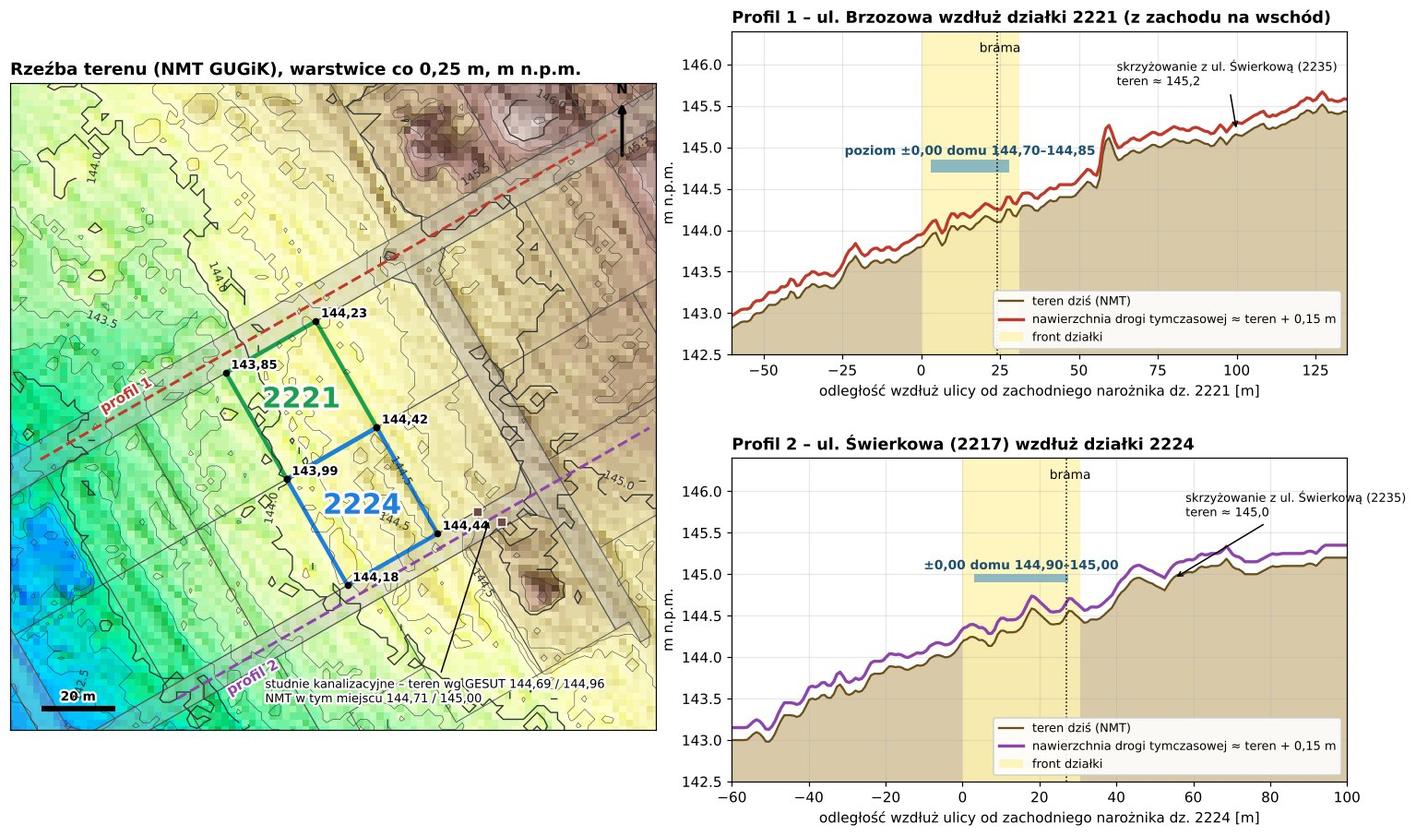
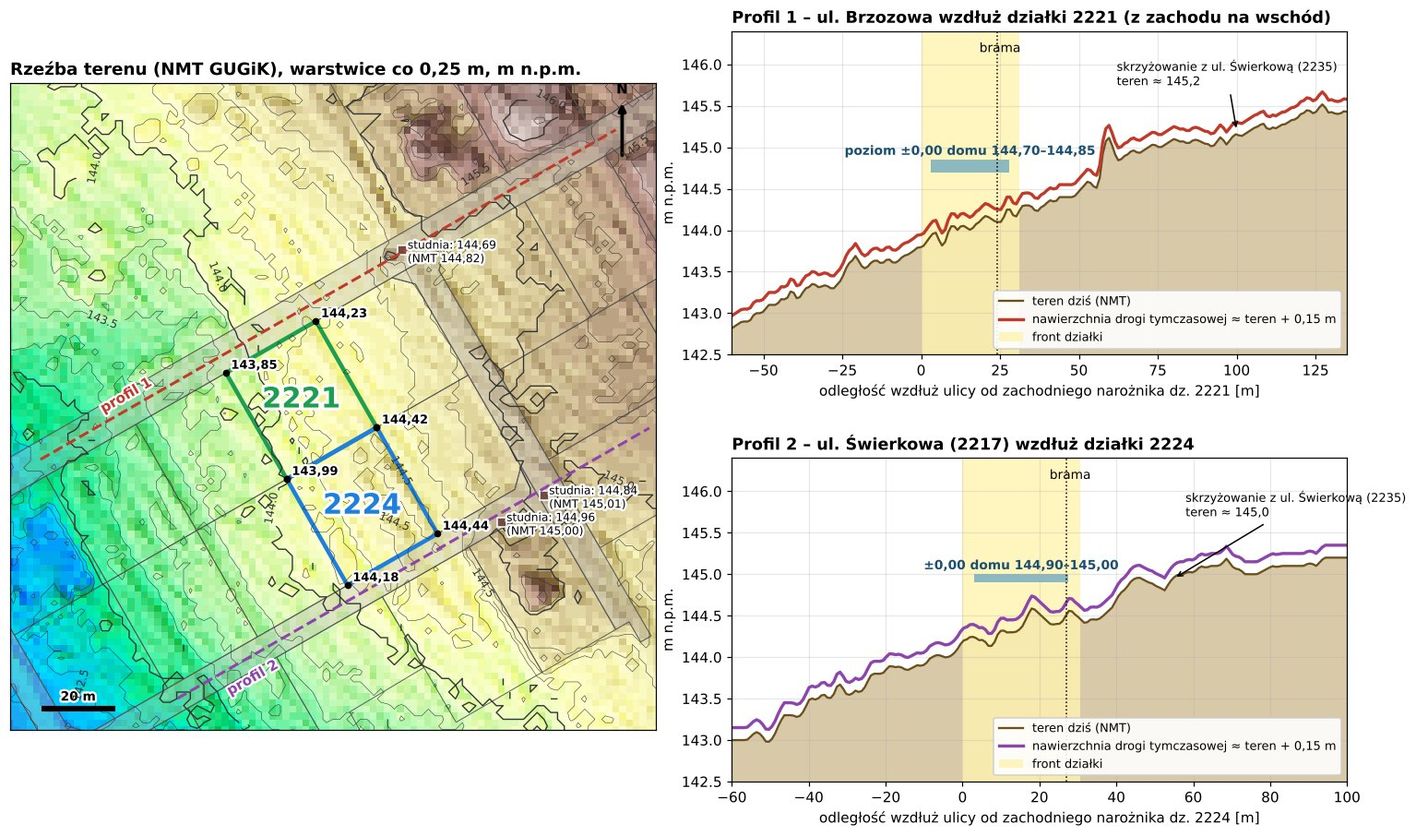
Tabela porównania mediów przy działkach, poprawki mapy wysokości
Claude-Session: https://claude.ai/code/session_01Di4FdYcmquZcsc6YQwvnck

Changed region(s): [[0.1837, 0.8035, 0.4287, 0.8653], [0.3368, 0.5563, 0.4593, 0.649], [0.2756, 0.2781, 0.3674, 0.34]]

diff --git a/index.html b/index.html
@@ -146,6 +146,10 @@ table.zg th small{display:block;font-weight:400;color:var(--muted);font-size:.78
 .legend{display:flex;flex-wrap:wrap;gap:.4rem 1.4rem;margin:.6rem 0;font-size:.92rem}
 .legend span{display:flex;align-items:center}
 
+dl.md{display:grid;grid-template-columns:auto 1fr;gap:.15rem .7rem;margin:.5rem 0 0;font-size:.88rem}
+dl.md dt{color:var(--muted)}dl.md dd{margin:0}
+table.mp td{min-width:17rem;vertical-align:top}
+
 :root{--f-display:"IBM Plex Sans","Segoe UI",system-ui,sans-serif;--f-body:"IBM Plex Sans","Segoe UI",system-ui,sans-serif;--side:300px;--topb:0px}
 :root,:root[data-theme="light"]{--paper:#f6f7f9;--card:#ffffff;--ink:#16202a;--muted:#55616c;--line:#d9dee4;--accent:#0b5e86;--accent-soft:#e3eef5;--side-bg:#ffffff;--side-ink:#16202a;--side-cur:#e3eef5}
 @media (prefers-color-scheme: dark){:root:not([data-theme="light"]){--side-bg:#0f171d;--side-ink:#e4ebe8;--side-cur:#183a40}}
@@ -233,7 +237,7 @@ header.hero .lead{font-size:1.1rem;max-width:none;color:var(--ink)}
 </head>
 <body>
 <div lang="pl" class="app">
-<aside class="side" id="side" aria-label="Spis treści"><div class="brand"><b>Dom w Garwolinie</b><span>wersja 2.2 · 18.10.2026</span></div><nav><div class="grp on" data-t="wspolne"><button type="button" class="gh" data-tab="wspolne" aria-expanded="true"><span class="tw2">Przegląd<small>wspólne dla obu działek</small></span><span class="chev" data-fold aria-label="Zwiń lub rozwiń">▾</span></button><ul><li><a href="#mpzp" data-sec="mpzp" data-t="wspolne">Plan miejscowy</a></li><li><a href="#c-zgod" data-sec="c-zgod" data-t="wspolne">Zgodność domów z planem</a></li><li><a href="#c-porownanie" data-sec="c-porownanie" data-t="wspolne">Porównanie działek</a></li><li><a href="#skroty" data-sec="skroty" data-t="wspolne">Skróty</a></li><li><a href="#c-slonce" data-sec="c-slonce" data-t="wspolne">Słońce – zasady</a></li><li><a href="#c-domy" data-sec="c-domy" data-t="wspolne">Domy</a></li><li><a href="#c-media" data-sec="c-media" data-t="wspolne">Media</a></li><li><a href="#gesut" data-sec="gesut" data-t="wspolne">Przyłącza wg GESUT</a></li><li><a href="#moc" data-sec="moc" data-t="wspolne">Moc i bezpiecznik</a></li><li><a href="#jak" data-sec="jak" data-t="wspolne">Wnioski PGE/PWiK/PSG</a></li><li><a href="#pge-form" data-sec="pge-form" data-t="wspolne">Wniosek PGE krok po kroku</a></li><li><a href="#zalozenia" data-sec="zalozenia" data-t="wspolne">Założenia</a></li><li><a href="#zrodla" data-sec="zrodla" data-t="wspolne">Źródła</a></li></ul></div><div class="grp" data-t="2221"><button type="button" class="gh" data-tab="2221" aria-expanded="true"><span class="tw2">Działka 2221<small>ul. Brzozowa · warianty A / B</small></span><span class="chev" data-fold aria-label="Zwiń lub rozwiń">▾</span></button><ul><li><a href="#2221-w" data-sec="2221-w" data-t="2221">Wnioski</a></li><li><a href="#2221-u" data-sec="2221-u" data-t="2221">Ustawienia domu</a></li><li><a href="#2221-s" data-sec="2221-s" data-t="2221">Słońce</a></li><li><a href="#2221-m" data-sec="2221-m" data-t="2221">Media</a></li><li><a href="#2221-d" data-sec="2221-d" data-t="2221">Domy</a></li></ul></div><div class="grp" data-t="2224"><button type="button" class="gh" data-tab="2224" aria-expanded="true"><span class="tw2">Działka 2224<small>ul. Świerkowa · warianty C / D</small></span><span class="chev" data-fold aria-label="Zwiń lub rozwiń">▾</span></button><ul><li><a href="#2224-w" data-sec="2224-w" data-t="2224">Wnioski</a></li><li><a href="#2224-u" data-sec="2224-u" data-t="2224">Ustawienia domu</a></li><li><a href="#2224-s" data-sec="2224-s" data-t="2224">Słońce</a></li><li><a href="#2224-m" data-sec="2224-m" data-t="2224">Media</a></li><li><a href="#2224-d" data-sec="2224-d" data-t="2224">Domy</a></li></ul></div><div class="grp" data-t="tech"><button type="button" class="gh" data-tab="tech" aria-expanded="true"><span class="tw2">Technologia<small>żelbet · keramzyt · silikat · drewno</small></span><span class="chev" data-fold aria-label="Zwiń lub rozwiń">▾</span></button><ul><li><a href="#t-kto" data-sec="t-kto" data-t="tech">Kto w czym buduje</a></li><li><a href="#t-energia" data-sec="t-energia" data-t="tech">Energia – wykresy</a></li><li><a href="#t-zima" data-sec="t-zima" data-t="tech">Zima</a></li><li><a href="#t-lato" data-sec="t-lato" data-t="tech">Lato</a></li><li><a href="#t-praktyka" data-sec="t-praktyka" data-t="tech">Szafki i elektryka</a></li><li><a href="#t-inne" data-sec="t-inne" data-t="tech">Akustyka, ogień, wilgoć</a></li><li><a href="#t-opinie" data-sec="t-opinie" data-t="tech">Producent vs właściciele</a></li><li><a href="#t-skandynawia" data-sec="t-skandynawia" data-t="tech">Mit Skandynawii</a></li><li><a href="#t-lokalnie" data-sec="t-lokalnie" data-t="tech">Rekomendacja dla Garwolina</a></li><li><a href="#t-wniosek" data-sec="t-wniosek" data-t="tech">Wnioski i pytania</a></li><li><a href="#t-zrodla" data-sec="t-zrodla" data-t="tech">Źródła</a></li></ul></div><div class="grp" data-t="fin"><button type="button" class="gh" data-tab="fin" aria-expanded="true"><span class="tw2">Koszty i kredyt<small>ogrzewanie · urządzenia · banki</small></span><span class="chev" data-fold aria-label="Zwiń lub rozwiń">▾</span></button><ul><li><a href="#f-energia" data-sec="f-energia" data-t="fin">Pompa ciepła czy gaz</a></li><li><a href="#f-urzadzenia" data-sec="f-urzadzenia" data-t="fin">Pompy ciepła i rekuperatory</a></li><li><a href="#f-kredyt" data-sec="f-kredyt" data-t="fin">Kredyt</a></li><li><a href="#f-zrodla" data-sec="f-zrodla" data-t="fin">Źródła</a></li></ul></div><div class="grp" data-t="krok"><button type="button" class="gh" data-tab="krok" aria-expanded="true"><span class="tw2">Krok po kroku<small>plan · dokumenty · wnioski</small></span><span class="chev" data-fold aria-label="Zwiń lub rozwiń">▾</span></button><ul><li><a href="#k-mpzp" data-sec="k-mpzp" data-t="krok">Plan miejscowy</a></li><li><a href="#k-zgod" data-sec="k-zgod" data-t="krok">Zgodność domów z planem</a></li><li><a href="#k-kroki" data-sec="k-kroki" data-t="krok">Kroki od działki do domu</a></li><li><a href="#k-producent" data-sec="k-producent" data-t="krok">Co dla producenta</a></li><li><a href="#k-wnioski" data-sec="k-wnioski" data-t="krok">Wnioski o warunki</a></li><li><a href="#k-drogi" data-sec="k-drogi" data-t="krok">Dojazd i zjazd</a></li><li><a href="#k-teren" data-sec="k-teren" data-t="krok">Wysokości, droga, podsypka</a></li><li><a href="#k-zrodla" data-sec="k-zrodla" data-t="krok">Źródła</a></li></ul></div></nav><div class="tools"><button type="button" id="thm">☾ Ciemny motyw</button><button type="button" data-fold-all>Zwiń wszystko</button></div></aside><div class="scrim" id="scrim"></div><div class="topbar"><button type="button" id="mbtn" aria-label="Menu" aria-controls="side">☰</button><span class="t" id="tbt">Dom w Garwolinie · v2.2</span><button type="button" id="thm2" aria-label="Zmień motyw jasny / ciemny">◐ Motyw</button></div><main class="wrap"><header class="hero" id="top">
+<aside class="side" id="side" aria-label="Spis treści"><div class="brand"><b>Dom w Garwolinie</b><span>wersja 2.2 · 18.10.2026</span></div><nav><div class="grp on" data-t="wspolne"><button type="button" class="gh" data-tab="wspolne" aria-expanded="true"><span class="tw2">Przegląd<small>wspólne dla obu działek</small></span><span class="chev" data-fold aria-label="Zwiń lub rozwiń">▾</span></button><ul><li><a href="#mpzp" data-sec="mpzp" data-t="wspolne">Plan miejscowy</a></li><li><a href="#c-zgod" data-sec="c-zgod" data-t="wspolne">Zgodność domów z planem</a></li><li><a href="#c-porownanie" data-sec="c-porownanie" data-t="wspolne">Porównanie działek</a></li><li><a href="#c-media-por" data-sec="c-media-por" data-t="wspolne">Media przy działkach</a></li><li><a href="#skroty" data-sec="skroty" data-t="wspolne">Skróty</a></li><li><a href="#c-slonce" data-sec="c-slonce" data-t="wspolne">Słońce – zasady</a></li><li><a href="#c-domy" data-sec="c-domy" data-t="wspolne">Domy</a></li><li><a href="#c-media" data-sec="c-media" data-t="wspolne">Media</a></li><li><a href="#gesut" data-sec="gesut" data-t="wspolne">Przyłącza wg GESUT</a></li><li><a href="#moc" data-sec="moc" data-t="wspolne">Moc i bezpiecznik</a></li><li><a href="#jak" data-sec="jak" data-t="wspolne">Wnioski PGE/PWiK/PSG</a></li><li><a href="#pge-form" data-sec="pge-form" data-t="wspolne">Wniosek PGE krok po kroku</a></li><li><a href="#zalozenia" data-sec="zalozenia" data-t="wspolne">Założenia</a></li><li><a href="#zrodla" data-sec="zrodla" data-t="wspolne">Źródła</a></li></ul></div><div class="grp" data-t="2221"><button type="button" class="gh" data-tab="2221" aria-expanded="true"><span class="tw2">Działka 2221<small>ul. Brzozowa · warianty A / B</small></span><span class="chev" data-fold aria-label="Zwiń lub rozwiń">▾</span></button><ul><li><a href="#2221-w" data-sec="2221-w" data-t="2221">Wnioski</a></li><li><a href="#2221-u" data-sec="2221-u" data-t="2221">Ustawienia domu</a></li><li><a href="#2221-s" data-sec="2221-s" data-t="2221">Słońce</a></li><li><a href="#2221-m" data-sec="2221-m" data-t="2221">Media</a></li><li><a href="#2221-d" data-sec="2221-d" data-t="2221">Domy</a></li></ul></div><div class="grp" data-t="2224"><button type="button" class="gh" data-tab="2224" aria-expanded="true"><span class="tw2">Działka 2224<small>ul. Świerkowa · warianty C / D</small></span><span class="chev" data-fold aria-label="Zwiń lub rozwiń">▾</span></button><ul><li><a href="#2224-w" data-sec="2224-w" data-t="2224">Wnioski</a></li><li><a href="#2224-u" data-sec="2224-u" data-t="2224">Ustawienia domu</a></li><li><a href="#2224-s" data-sec="2224-s" data-t="2224">Słońce</a></li><li><a href="#2224-m" data-sec="2224-m" data-t="2224">Media</a></li><li><a href="#2224-d" data-sec="2224-d" data-t="2224">Domy</a></li></ul></div><div class="grp" data-t="tech"><button type="button" class="gh" data-tab="tech" aria-expanded="true"><span class="tw2">Technologia<small>żelbet · keramzyt · silikat · drewno</small></span><span class="chev" data-fold aria-label="Zwiń lub rozwiń">▾</span></button><ul><li><a href="#t-kto" data-sec="t-kto" data-t="tech">Kto w czym buduje</a></li><li><a href="#t-energia" data-sec="t-energia" data-t="tech">Energia – wykresy</a></li><li><a href="#t-zima" data-sec="t-zima" data-t="tech">Zima</a></li><li><a href="#t-lato" data-sec="t-lato" data-t="tech">Lato</a></li><li><a href="#t-praktyka" data-sec="t-praktyka" data-t="tech">Szafki i elektryka</a></li><li><a href="#t-inne" data-sec="t-inne" data-t="tech">Akustyka, ogień, wilgoć</a></li><li><a href="#t-opinie" data-sec="t-opinie" data-t="tech">Producent vs właściciele</a></li><li><a href="#t-skandynawia" data-sec="t-skandynawia" data-t="tech">Mit Skandynawii</a></li><li><a href="#t-lokalnie" data-sec="t-lokalnie" data-t="tech">Rekomendacja dla Garwolina</a></li><li><a href="#t-wniosek" data-sec="t-wniosek" data-t="tech">Wnioski i pytania</a></li><li><a href="#t-zrodla" data-sec="t-zrodla" data-t="tech">Źródła</a></li></ul></div><div class="grp" data-t="fin"><button type="button" class="gh" data-tab="fin" aria-expanded="true"><span class="tw2">Koszty i kredyt<small>ogrzewanie · urządzenia · banki</small></span><span class="chev" data-fold aria-label="Zwiń lub rozwiń">▾</span></button><ul><li><a href="#f-energia" data-sec="f-energia" data-t="fin">Pompa ciepła czy gaz</a></li><li><a href="#f-urzadzenia" data-sec="f-urzadzenia" data-t="fin">Pompy ciepła i rekuperatory</a></li><li><a href="#f-kredyt" data-sec="f-kredyt" data-t="fin">Kredyt</a></li><li><a href="#f-zrodla" data-sec="f-zrodla" data-t="fin">Źródła</a></li></ul></div><div class="grp" data-t="krok"><button type="button" class="gh" data-tab="krok" aria-expanded="true"><span class="tw2">Krok po kroku<small>plan · dokumenty · wnioski</small></span><span class="chev" data-fold aria-label="Zwiń lub rozwiń">▾</span></button><ul><li><a href="#k-mpzp" data-sec="k-mpzp" data-t="krok">Plan miejscowy</a></li><li><a href="#k-zgod" data-sec="k-zgod" data-t="krok">Zgodność domów z planem</a></li><li><a href="#k-kroki" data-sec="k-kroki" data-t="krok">Kroki od działki do domu</a></li><li><a href="#k-producent" data-sec="k-producent" data-t="krok">Co dla producenta</a></li><li><a href="#k-wnioski" data-sec="k-wnioski" data-t="krok">Wnioski o warunki</a></li><li><a href="#k-drogi" data-sec="k-drogi" data-t="krok">Dojazd i zjazd</a></li><li><a href="#k-teren" data-sec="k-teren" data-t="krok">Wysokości, droga, podsypka</a></li><li><a href="#k-zrodla" data-sec="k-zrodla" data-t="krok">Źródła</a></li></ul></div></nav><div class="tools"><button type="button" id="thm">☾ Ciemny motyw</button><button type="button" data-fold-all>Zwiń wszystko</button></div></aside><div class="scrim" id="scrim"></div><div class="topbar"><button type="button" id="mbtn" aria-label="Menu" aria-controls="side">☰</button><span class="t" id="tbt">Dom w Garwolinie · v2.2</span><button type="button" id="thm2" aria-label="Zmień motyw jasny / ciemny">◐ Motyw</button></div><main class="wrap"><header class="hero" id="top">
 <p class="eyebrow">Garwolin · obręb 0001 · działki 2221 i 2224</p>
 <h1>Dom w Garwolinie – analiza działek i domów</h1>
 <ul class="docmeta"><li class="v"><b>Wersja 2.2</b></li><li>Data: <b>18.10.2026</b></li><li>Autor: <b>Piotr Wiśniewski</b></li><li>Status: <b>koncepcja do decyzji</b></li><li>Układ współrzędnych: PUWG 1992 (EPSG:2180)</li><li><button type="button" class="thm-b" aria-label="Przełącz motyw jasny / ciemny">◐ Motyw: <b class="thm-l">jasny</b></button></li></ul>
@@ -255,7 +259,7 @@ header.hero .lead{font-size:1.1rem;max-width:none;color:var(--ink)}
 <dt>Teren</dt><dd>143,99–144,44 m n.p.m.; proponowane ±0,00 domu 144,90–145,00</dd>
 <dt>Współrzędne</dt><dd>51°52′50,7″N 21°37′59,2″E</dd></dl>
 <div class="act"><button type="button" data-goto="2224">Zakładka działki 2224</button><a href="https://mapy.geoportal.gov.pl/imap/Imgp_2.html?identifyParcel=140301_1.0001.2224" target="_blank" rel="noopener">Geoportal ↗</a></div></article></div><figure class="wide"><button type="button" class="zoom" data-src="img/locator.jpg" aria-label="Powiększ mapę położenia"><img src="img/locator.jpg" alt="Położenie działek 2221 i 2224 w Garwolinie na ortofotomapie: widok miasta i zbliżenie z ulicami Brzozową i Świerkową"></button><figcaption>Lewa mapa: położenie w Garwolinie (pas 2 × 2 km). Prawa: zbliżenie – zielona działka 2221 z wjazdem od ul. Brzozowej, niebieska 2224 z wjazdem od ul. Świerkowej. Ortofotomapa i nazwy ulic: Geoportal GUGiK, granice działek: ULDK GUGiK.</figcaption></figure>
-</header><section class="tab" id="tab-wspolne" data-tab="wspolne"><nav class="subnav" aria-label="Sekcje przeglądu"><div class="in"><a href="#mpzp" data-jump="mpzp">Plan miejscowy</a><a href="#c-zgod" data-jump="c-zgod">Zgodność domów z planem</a><a href="#c-porownanie" data-jump="c-porownanie">Porównanie działek</a><a href="#skroty" data-jump="skroty">Skróty</a><a href="#c-slonce" data-jump="c-slonce">Słońce – zasady</a><a href="#c-domy" data-jump="c-domy">Domy</a><a href="#c-media" data-jump="c-media">Media</a><a href="#gesut" data-jump="gesut">Przyłącza wg GESUT</a><a href="#moc" data-jump="moc">Moc i bezpiecznik</a><a href="#jak" data-jump="jak">Wnioski PGE/PWiK/PSG</a><a href="#pge-form" data-jump="pge-form">Wniosek PGE krok po kroku</a><a href="#zalozenia" data-jump="zalozenia">Założenia</a><a href="#zrodla" data-jump="zrodla">Źródła</a></div></nav><div class="col"><div class="call bad" id="mpzp"><strong>Plan miejscowy obowiązuje – i ogranicza wybór domu</strong>
+</header><section class="tab" id="tab-wspolne" data-tab="wspolne"><nav class="subnav" aria-label="Sekcje przeglądu"><div class="in"><a href="#mpzp" data-jump="mpzp">Plan miejscowy</a><a href="#c-zgod" data-jump="c-zgod">Zgodność domów z planem</a><a href="#c-porownanie" data-jump="c-porownanie">Porównanie działek</a><a href="#c-media-por" data-jump="c-media-por">Media przy działkach</a><a href="#skroty" data-jump="skroty">Skróty</a><a href="#c-slonce" data-jump="c-slonce">Słońce – zasady</a><a href="#c-domy" data-jump="c-domy">Domy</a><a href="#c-media" data-jump="c-media">Media</a><a href="#gesut" data-jump="gesut">Przyłącza wg GESUT</a><a href="#moc" data-jump="moc">Moc i bezpiecznik</a><a href="#jak" data-jump="jak">Wnioski PGE/PWiK/PSG</a><a href="#pge-form" data-jump="pge-form">Wniosek PGE krok po kroku</a><a href="#zalozenia" data-jump="zalozenia">Założenia</a><a href="#zrodla" data-jump="zrodla">Źródła</a></div></nav><div class="col"><div class="call bad" id="mpzp"><strong>Plan miejscowy obowiązuje – i ogranicza wybór domu</strong>
 <p>Obie działki leżą w miejscowym planie zagospodarowania przestrzennego (MPZP) nr 007 – uchwała Rady Miasta Garwolina nr XXXII/193/2005 z 24.05.2005 (Dz. Urz. Woj. Maz. 2005 nr 148, poz. 4617), w terenie <b>MN,U-2</b> (zabudowa mieszkaniowa jednorodzinna z usługami). Sprawdziłem to w Krajowej Integracji Miejscowych Planów Zagospodarowania Przestrzennego (GUGiK) i na rysunku planu. Najważniejsze ustalenia z tekstu uchwały (§ 7 ust. 3):</p>
 <ul>
 <li><b>dach: nachylenie połaci 30–45°</b>, zakaz dachów jednospadowych;</li>
@@ -294,7 +298,11 @@ header.hero .lead{font-size:1.1rem;max-width:none;color:var(--ink)}
 <p><b>Działka 2224</b> ma prąd tuż przy działce i krótsze przyłącze kanalizacji, a dojazd prowadzi istniejącą ulicą; woda jest podobnie daleko jak przy 2221, a gaz dalej. Koszt wszystkich przyłączy wychodzi przy obu działkach podobnie (ok. 20–36 tys. zł – sekcja „Przyłącza wg GESUT” w zakładce Przegląd). Na tej działce słońce „przychodzi od ulicy”, więc trzeba wybrać: albo krótki podjazd i ogród od północy (C), albo słoneczny salon od strony ulicy i długi podjazd (D).<br>
 <b>Działka 2221</b> ma lepszą orientację: ulica od północy, a ogród i salon od słonecznej, prywatnej strony, przy krótkim podjeździe (wariant A). Płaci się za to dłuższymi przyłączami prądu, wody i kanalizacji pasem ul. Brzozowej (ok. 40–50 m) i dojazdem tą ulicą, która dziś jest pasem trawy; gaz jest za to przy samej działce.<br>
 Jeśli Urząd Miasta potwierdzi, że ul. Brzozowa będzie urządzona (albo przynajmniej przejezdna przez cały rok), a PGE i PWiK wydadzą warunki z przyłączami w pasie tej ulicy, lepszy do mieszkania jest dom na 2221 w wariancie A. Jeśli liczy się pewny dojazd i prąd od razu przy działce, wygrywa 2224.</p>
-</div><div class="col"><table class="meta" aria-label="Metryka dokumentu">
+</div><div class="col" id="c-media-por"><h3>Media przy działkach – porównanie</h3>
+<p>Dla każdego medium: czy sieć jest przy działce, skąd dokąd biegnie przyłącze, ile ma metrów i czy połączenie jest bezpośrednie (sieć wzdłuż frontu działki, krótkie przejście pod jezdnią), czy pośrednie (przyłącze trzeba prowadzić pasem ulicy od sieci w innej ulicy). Dane z mapy uzbrojenia terenu (GESUT) i długości tras policzone w pasie drogi do ogrodzenia.</p>
+<div class="legend"><span><span class="mk ok" aria-label="spełnia">✔</span> sieć przy działce – połączenie bezpośrednie</span><span><span class="mk ck" aria-label="do sprawdzenia">!</span> sieć dalej – dłuższe przyłącze pasem ulicy</span><span><span class="mk no" aria-label="nie spełnia">✘</span> brak sieci</span></div>
+<div class="tw"><table class="zg mp"><thead><tr><th>Medium</th><th>Działka 2221 (ul. Brzozowa)</th><th>Działka 2224 (ul. Świerkowa)</th></tr></thead><tbody><tr><th scope="row">Prąd<small>kabel nN (niskiego napięcia)</small></th><td><span class="c"><span class="mk ck" aria-label="do sprawdzenia">!</span><span><b>sieć dalej – w ul. Świerkowej N–S</b></span></span><dl class="md"><dt>Skąd → dokąd</dt><dd>kabel nN w ul. Świerkowej (dz. 2235) → pasem ul. Brzozowej → złącze ZK w ogrodzeniu przy bramie</dd><dt>Długość przyłącza</dt><dd>ok. 39 m (wariant A), 45 m (B)</dd><dt>Połączenie</dt><dd>pośrednie – PGE buduje odcinek kabla w ul. Brzozowej (w opłacie, ale dłużej)</dd></dl></td><td><span class="c"><span class="mk ok" aria-label="spełnia">✔</span><span><b>sieć przy działce</b></span></span><dl class="md"><dt>Skąd → dokąd</dt><dd>kabel nN w ul. Świerkowej (dz. 2217), wzdłuż całego frontu, po drugiej stronie jezdni → złącze ZK</dd><dt>Długość przyłącza</dt><dd>ok. 7 m (C i D)</dd><dt>Połączenie</dt><dd>bezpośrednie – krótkie przejście pod jezdnią</dd></dl></td></tr><tr><th scope="row">Gaz<small>gazociąg gS63</small></th><td><span class="c"><span class="mk ok" aria-label="spełnia">✔</span><span><b>sieć przy działce</b></span></span><dl class="md"><dt>Skąd → dokąd</dt><dd>gS63 w ul. Brzozowej wzdłuż całego frontu (ok. 8–9 m od granicy) → szafka gazowa w ogrodzeniu</dd><dt>Długość przyłącza</dt><dd>ok. 9 m (A i B)</dd><dt>Połączenie</dt><dd>bezpośrednie – mieści się w ryczałcie PSG do 15 m</dd></dl></td><td><span class="c"><span class="mk ck" aria-label="do sprawdzenia">!</span><span><b>sieć dalej – kończy się ok. 13 m od narożnika</b></span></span><dl class="md"><dt>Skąd → dokąd</dt><dd>koniec gS63 przy skrzyżowaniu ul. Świerkowych (2217 i 2235) → pasem ul. Świerkowej 2217 → szafka</dd><dt>Długość przyłącza</dt><dd>ok. 21 m (C), 27 m (D)</dd><dt>Połączenie</dt><dd>pośrednie – dłuższe przyłącze (dopłata za metry) albo przedłużenie sieci przez PSG</dd></dl></td></tr><tr><th scope="row">Woda<small>wodociąg wo110</small></th><td><span class="c"><span class="mk ck" aria-label="do sprawdzenia">!</span><span><b>sieć dalej – w ul. Świerkowej N–S</b></span></span><dl class="md"><dt>Skąd → dokąd</dt><dd>wo110 w ul. Świerkowej (dz. 2235) → pasem ul. Brzozowej → studzienka wodomierzowa za granicą działki</dd><dt>Długość przyłącza</dt><dd>ok. 42 m (A), 50 m (B)</dd><dt>Połączenie</dt><dd>pośrednie – PWiK może zamiast przyłącza wskazać rozbudowę sieci w ul. Brzozowej</dd></dl></td><td><span class="c"><span class="mk ck" aria-label="do sprawdzenia">!</span><span><b>sieć dalej – w ul. Świerkowej N–S</b></span></span><dl class="md"><dt>Skąd → dokąd</dt><dd>wo110 w ul. Świerkowej (dz. 2235) → pasem ul. Świerkowej 2217 → studzienka wodomierzowa (przed działką jest tylko przyłącze wo40 do dz. 2234)</dd><dt>Długość przyłącza</dt><dd>ok. 41 m (C), 49 m (D)</dd><dt>Połączenie</dt><dd>pośrednie – możliwa rozbudowa sieci w ul. Świerkowej 2217</dd></dl></td></tr><tr><th scope="row">Kanalizacja sanitarna<small>kanał ks200</small></th><td><span class="c"><span class="mk ck" aria-label="do sprawdzenia">!</span><span><b>sieć dalej – studnia na skrzyżowaniu</b></span></span><dl class="md"><dt>Skąd → dokąd</dt><dd>studnia ks200 na skrzyżowaniu ul. Brzozowej i Świerkowej (teren 144,69, dno 143,10 m n.p.m.) → pasem ul. Brzozowej → studzienka rewizyjna na działce</dd><dt>Długość przyłącza</dt><dd>ok. 44 m (A), 52 m (B)</dd><dt>Połączenie</dt><dd>pośrednie – grawitacyjnie możliwe przy poziomie domu z raportu, ale rura przy domu płytko (ocieplenie lub podniesienie terenu); w razie problemów – przepompownia przydomowa</dd></dl></td><td><span class="c"><span class="mk ck" aria-label="do sprawdzenia">!</span><span><b>sieć dalej – studnia ok. 19 m od narożnika</b></span></span><dl class="md"><dt>Skąd → dokąd</dt><dd>studnia ks200 na skrzyżowaniu ul. Świerkowych (teren 144,96, dno 143,51 m n.p.m.) → pasem ul. Świerkowej 2217 → studzienka rewizyjna</dd><dt>Długość przyłącza</dt><dd>ok. 28 m (C), 36 m (D)</dd><dt>Połączenie</dt><dd>pośrednie – grawitacyjnie, krótsze niż przy 2221</dd></dl></td></tr><tr><th scope="row">Telekomunikacja (internet)<small>sieć kablowa</small></th><td><span class="c"><span class="mk no" aria-label="nie spełnia">✘</span><span><b>brak w GESUT przy działce</b></span></span><dl class="md"><dt>Skąd → dokąd</dt><dd>najbliższa sieć w GESUT ok. 90 m na północny zachód</dd><dt>Długość przyłącza</dt><dd>–</dd><dt>Połączenie</dt><dd>zapytać operatorów o światłowód; alternatywa: internet LTE/5G</dd></dl></td><td><span class="c"><span class="mk no" aria-label="nie spełnia">✘</span><span><b>brak w GESUT przy działce</b></span></span><dl class="md"><dt>Skąd → dokąd</dt><dd>jw.</dd><dt>Długość przyłącza</dt><dd>–</dd><dt>Połączenie</dt><dd>jw.</dd></dl></td></tr><tr><th scope="row">Droga dojazdowa<small>wg planu miejscowego</small></th><td><span class="c"><span class="mk ck" aria-label="do sprawdzenia">!</span><span><b>ul. Brzozowa – droga publiczna (KD), nieutwardzona</b></span></span><dl class="md"><dt>Skąd → dokąd</dt><dd>od skrzyżowania z ul. Świerkową do bramy pasem trawy</dd><dt>Długość przyłącza</dt><dd>ok. 29–32 m do bramy</dd><dt>Połączenie</dt><dd>zjazd wymaga zezwolenia zarządcy drogi (Burmistrz); utwardzenie tylko za zgodą gminy</dd></dl></td><td><span class="c"><span class="mk ok" aria-label="spełnia">✔</span><span><b>ul. Świerkowa (2217) przy działce</b></span></span><dl class="md"><dt>Skąd → dokąd</dt><dd>brama bezpośrednio z ulicy przylegającej do działki</dd><dt>Długość przyłącza</dt><dd>–</dd><dt>Połączenie</dt><dd>ulica wewnętrzna (KW) – sprawdzić właściciela dz. 2217 w ewidencji</dd></dl></td></tr></tbody></table></div>
+<p class="cap">Długość to odcinek od sieci do granicy działki; dalej na działce biegnie instalacja do domu. Ostateczną trasę i miejsce włączenia wskażą PGE, PSG i PWiK w warunkach przyłączenia. Koszty przyłączy – w sekcji „Przyłącza wg GESUT”.</p></div><div class="col"><table class="meta" aria-label="Metryka dokumentu">
 <tr><th>Inwestor / autor</th><td>Piotr Wiśniewski</td></tr>
 <tr><th>Lokalizacja</th><td>Garwolin, obręb 0001 Miasto Garwolin: działka 2221 (<span class="mono">140301_1.0001.2221</span>) albo działka 2224 (<span class="mono">140301_1.0001.2224</span>)</td></tr>
 <tr><th>Status</th><td>Koncepcja do decyzji – nie jest projektem budowlanym</td></tr>
@@ -359,8 +367,8 @@ W części wariantów dom jest lustrzanym odbiciem projektu (opisane przy rzucie
 <tr><th scope="row">Droga, przy której leży działka</th><td>ul. Brzozowa (dz. 2212), szer. ok. 9,8 m, <b>nieutwardzona</b>; front działki 30,8 m</td><td>ul. Świerkowa (dz. 2217), szer. ok. 7,7 m; front działki 30,8 m</td></tr>
 <tr><th scope="row">Odległość od ul. Świerkowej N–S (dz. 2235)</th><td>25,8 m (między nimi dz. 2222); od skrzyżowania do bramy pasem ul. Brzozowej ok. 29–32 m</td><td>31,0 m (między nimi dz. 2223); od skrzyżowania do bramy ok. 34–37 m</td></tr>
 <tr><th scope="row">Gaz</th><td class="good"><b>gS63 biegnie w ul. Brzozowej wzdłuż całego frontu działki</b> – po przeciwnej stronie pasa drogi (ok. 8–9 m od granicy). Wasza informacja się potwierdza.</td><td class="mid">gS63 kończy się przy skrzyżowaniu z ul. Świerkową N–S, ok. 13 m od wschodniego narożnika działki (dalej tylko przyłącze gS25 do dz. 2234). Potrzebne dłuższe przyłącze albo przedłużenie sieci przez PSG.</td></tr>
-<tr><th scope="row">Prąd</th><td class="mid">W ul. Brzozowej <b>brak</b>. Kabel nN biegnie w ul. Świerkowej N–S (dz. 2235).</td><td class="good">Kabel nN biegnie w ul. Świerkowej (dz. 2217) <b>wzdłuż całego frontu</b>, po drugiej stronie jezdni (ok. 7 m od granicy).</td></tr>
-<tr><th scope="row">Woda</th><td class="mid">W ul. Brzozowej brak. Wodociąg wo110 w ul. Świerkowej N–S (2235).</td><td class="mid">W ul. Świerkowej przed działką <b>brak</b> (jest tylko przyłącze wo40 do dz. 2234). Wodociąg wo110 w ul. Świerkowej N–S (2235).</td></tr>
+<tr><th scope="row">Prąd</th><td class="mid">W ul. Brzozowej brak. Kabel nN biegnie w ul. Świerkowej N–S (dz. 2235).</td><td class="good">Kabel nN biegnie w ul. Świerkowej (dz. 2217) <b>wzdłuż całego frontu</b>, po drugiej stronie jezdni (ok. 7 m od granicy).</td></tr>
+<tr><th scope="row">Woda</th><td class="mid">W ul. Brzozowej brak. Wodociąg wo110 w ul. Świerkowej N–S (2235).</td><td class="mid">W ul. Świerkowej przed działką brak (jest tylko przyłącze wo40 do dz. 2234). Wodociąg wo110 w ul. Świerkowej N–S (2235).</td></tr>
 <tr><th scope="row">Kanalizacja sanitarna</th><td class="mid">W ul. Brzozowej brak. Kanał ks200 w ul. Świerkowej N–S, najbliższa studnia przy skrzyżowaniu: teren 144,69, dno 143,10 m n.p.m.</td><td class="mid">Kanał ks200 dochodzi do studni przy skrzyżowaniu (teren 144,96, dno 143,51 m n.p.m.), ok. 19 m od narożnika działki.</td></tr>
 </tbody></table></div>
 <h3>Długość przyłączy od sieci do granicy działki (w pasie drogi)</h3>
@@ -381,7 +389,7 @@ W części wariantów dom jest lustrzanym odbiciem projektu (opisane przy rzucie
 <tr><th scope="row">Razem (bez instalacji na działce)</th><td><b>ok. 20 000–36 000 zł</b> (bez gazu: 15 600–32 000 zł)</td><td><b>ok. 19 800–36 000 zł</b> (bez gazu: 13 600–28 100 zł)</td><td>+ mapa do celów projektowych, zajęcie pasa drogowego, przewierty – do wyceny</td></tr>
 </tbody></table></div>
 <div class="call warn"><strong>Kanalizacja grawitacyjna – do sprawdzenia przez projektanta</strong>
-<p>Dno studni przy skrzyżowaniu z ul. Brzozową leży na 143,10 m n.p.m., a przy ul. Świerkowej (2217) na 143,51 m n.p.m. Przy typowym spadku 1,5% przyłącze długości 44–52 m (dz. 2221) potrzebuje ok. 0,7–0,8 m różnicy wysokości, a 28–36 m (dz. 2224) – ok. 0,4–0,5 m. Jeśli wyjście kanalizacji z domu będzie niżej niż ok. 143,9 m (dz. 2221) lub ok. 144,0 m n.p.m. (dz. 2224), grawitacyjnie się nie da i potrzebna będzie przepompownia przydomowa. Rzędnych terenu na działkach nie mam (tylko ok. 140,6–145,7 m z raportu OnGeo), więc rozstrzygnie to mapa do celów projektowych.</p></div>
+<p>Dno studni przy skrzyżowaniu z ul. Brzozową leży na 143,10 m n.p.m., a przy ul. Świerkowej (2217) na 143,51 m n.p.m. Przy typowym spadku 1,5% przyłącze długości 44–52 m (dz. 2221) potrzebuje ok. 0,7–0,8 m różnicy wysokości, a 28–36 m (dz. 2224) – ok. 0,4–0,5 m. Jeśli wyjście kanalizacji z domu będzie niżej niż ok. 143,9 m (dz. 2221) lub ok. 144,0 m n.p.m. (dz. 2224), grawitacyjnie się nie da i potrzebna będzie przepompownia przydomowa. Teren na działkach leży na ok. 143,9–144,4 m n.p.m. (model terenu GUGiK – sekcja „Wysokości, droga, podsypka” w zakładce „Krok po kroku”); ostatecznie rozstrzygnie to mapa do celów projektowych.</p></div>
 <div class="call info"><strong>Długie przyłącza wody i kanalizacji</strong>
 <p>Przy ok. 40–50 m w pasie drogi PWiK może zamiast przyłącza wskazać rozbudowę sieci w ul. Brzozowej lub Świerkowej (2217). Rozbudowę zwykle realizuje gmina lub przedsiębiorstwo, czasem na podstawie umowy z inwestorem – zapytajcie o to przy wniosku o warunki. Na budowę przyłączy w drodze gminnej potrzebna jest zgoda zarządcy drogi (Burmistrz Garwolina) i opłata za zajęcie pasa drogowego.</p></div>
 <p class="cap">Źródła: <a href="https://integracja.gugik.gov.pl/cgi-bin/KrajowaIntegracjaUzbrojeniaTerenu" target="_blank" rel="noopener">GUGiK – Krajowa Integracja Uzbrojenia Terenu (WMS)</a> → <a href="https://garwolinski.geoportal2.pl/" target="_blank" rel="noopener">Geoportal powiatu garwolińskiego</a>; <a href="https://muratordom.pl/cenniki-budowlane/koszt-przylaczy-mediow-w-2026-ile-zaplacisz-za-prad-wode-kanalizacje-i-gaz-w-nowym-domu-aa-n4VB-nJaq-Prmm.html" target="_blank" rel="noopener">Murator – koszt przyłączy 2026</a>; <a href="https://kb.pl/cenniki/uslugi/przylacza-wodno-kanalizacyjne/" target="_blank" rel="noopener">kb.pl – cennik przyłączy wod.-kan. 2026</a>; <a href="https://muratordom.pl/instalacje/przylacza/przylacze-gazu-koszt-2025-ile-kosztuje-podlaczenie-gazu-do-domu-ile-sie-czeka-na-podlaczenie-licznika-gazu-gdzie-zlozyc-wniosek-o-przylacze-gazowe-aa-g2tD-AN77-xkF6.html" target="_blank" rel="noopener">Murator – przyłącze gazu (ryczałt PSG)</a>.</p>
@@ -534,7 +542,7 @@ W części wariantów dom jest lustrzanym odbiciem projektu (opisane przy rzucie
 <tr><td>1.1</td><td>18.10.2026</td><td>Wariant B na działce 2221 z frontem na wschód i wjazdem z ul. Brzozowej; sąsiednie działki, brama, furtka; harmonogram słońca w pomieszczeniach; sekcja o mocy przyłączeniowej.</td></tr>
 <tr><td>2.0</td><td>18.10.2026</td><td>Ponowna weryfikacja informacji o przyłączach. Poprawki: ważność warunków z PGE to od 30.04.2026 1 rok (nie 2 lata); PSG – termin dotyczy złożenia wniosku o umowę. Zakładki: Przegląd, Działka 2221, Działka 2224. Nowe warianty C i D dla działki 2224 (wjazd z ul. Świerkowej). Wizualizacje fotorealistyczne (Blender Cycles: ściany z grubością i wnękami okiennymi, ramy, parapety, firany, rynny, brama segmentowa, przystrzyżony trawnik, rabaty, żywopłot; kamera na wysokości oczu) dla wszystkich domów i wariantów. Nowa sekcja: pola wniosku do PGE z odpowiedziami i sprawa braku adresu. Nowa zakładka „Technologia”: porównanie ścian (zima, lato, szafki, elektryka, akustyka, ogień, wilgoć), deklaracje producentów vs opinie właścicieli; korekta: FLiXHOME buduje z żelbetu, nie z keramzytu. Nowe zakładki „Koszty i kredyt” (pompa ciepła vs gaz, urządzenia, banki i raty, wartość działek) i „Krok po kroku” (MPZP nr 007 – teren MN,U-2, dach 30–45°; dokumenty, kolejność formalności, zjazd). Przyłącza i sieci wg GESUT (odległości, długości, koszty) zamiast odczytu z OnGeo; plany zagospodarowania z sieciami z GESUT. Rekomendacja technologii dla Garwolina. Wykresy energii: straty ciepła przy −20 °C, bilans miesięczny (TMY Siedlce), wpływ technologii i ustawienia domu, roczne zużycie prądu, godzinowy pobór mocy w mroźny dzień, zyski słoneczne latem. Poprawka: w PGE 27 kW odpowiada zabezpieczenie 3 × 50 A (wcześniej błędnie 3 × 40 A); nowa ocena potrzebnej mocy dla domu ok. 130 m² z pompą ciepła, indukcją i ładowarką.</td></tr>
 <tr><td>2.1</td><td>18.10.2026</td><td>Nowy układ raportu: pionowe menu z rozwiniętymi sekcjami i podświetleniem bieżącej sekcji (na telefonie menu pod przyciskiem ☰), czcionka IBM Plex Sans, jasny motyw z przełącznikiem na ciemny, treść na pełną szerokość. Nagłówek z metryczką (wersja, data, autor, status) i kartami działek 2221 i 2224 (identyfikator, wymiary, ulica dojazdowa, przeznaczenie w planie, odległości do sieci, link do Geoportalu). Nowa mapa położenia na ortofotomapie GUGiK z ulicami z Krajowej Integracji Numeracji Adresowej. Komplet 32 wizualizacji fotorealistycznych (przód i ogród). Poprawione nachodzenie paska zakładek na treść. Nowa sekcja „Wysokości, droga, podsypka” w zakładce „Krok po kroku”: wysokości terenu z NMT GUGiK sprawdzone na studniach z GESUT, profile ul. Brzozowej i Świerkowej, wysokość drogi tymczasowej, proponowany poziom ±0,00 domu (limit 1 m z planu), ilość i koszt podsypki pod płytę, wpływ na kanalizację, art. 234 Prawa wodnego i art. 16 i 29 ustawy o drogach publicznych.</td></tr>
-<tr><td>2.2</td><td>18.10.2026</td><td>Nowa tabela „Zgodność domów z planem miejscowym” (w Przeglądzie i w zakładce „Krok po kroku”): 10 wymogów MPZP nr 007 dla terenu MN,U-2 dla każdego domu, oznaczenia zielone (spełnia), czerwone (nie spełnia) i żółte (do sprawdzenia) z uzasadnieniem. Strona publiczna: domgarwolin.azureme.pl (bez danych osobistych). Usunięto nazwę firmy z metryczki – raport jest prywatny.</td></tr>
+<tr><td>2.2</td><td>18.10.2026</td><td>Nowa tabela „Zgodność domów z planem miejscowym” (w Przeglądzie i w zakładce „Krok po kroku”): 10 wymogów MPZP nr 007 dla terenu MN,U-2 dla każdego domu, oznaczenia zielone (spełnia), czerwone (nie spełnia) i żółte (do sprawdzenia) z uzasadnieniem. Strona publiczna: domgarwolin.azureme.pl (bez danych osobistych). Nowa tabela „Media przy działkach – porównanie” (status, trasa skąd–dokąd, długość, połączenie bezpośrednie lub pośrednie, internet, droga); ujednolicone wyróżnienia; poprawione położenie studni kanalizacyjnych na mapie wysokości. Usunięto nazwę firmy z metryczki – raport jest prywatny.</td></tr>
 </tbody></table></div>
 </section></section><section class="tab" id="tab-2221" data-tab="2221" hidden><nav class="subnav" aria-label="Sekcje działki"><div class="in"><a href="#2221-w" data-jump="2221-w">Wnioski</a><a href="#2221-u" data-jump="2221-u">Ustawienia domu</a><a href="#2221-s" data-jump="2221-s">Słońce</a><a href="#2221-m" data-jump="2221-m">Media</a><a href="#2221-d" data-jump="2221-d">Domy</a></div></nav><div id="2221-w"><div class="col"><section><h2>Działka 2221 – wnioski</h2>
 <p>Działka 2221 (30,50 × 36,03 m, ok. 1098 m²) ma dostęp do drogi publicznej tylko od ul. Brzozowej, od strony NNW. Od wschodu leży działka sąsiada 2222, a dopiero za nią ul. Świerkowa. Dlatego w obu wariantach brama, furtka i szafki z licznikami stoją w ogrodzeniu od ul. Brzozowej. Warianty różnią się tylko tym, w którą stronę patrzy front domu, czyli wejście i brama garażowa.</p>
@@ -951,7 +959,7 @@ W części wariantów dom jest lustrzanym odbiciem projektu (opisane przy rzucie
 <div class="call warn"><strong>Transport prefabrykatów</strong>
 <p>Dom prefabrykowany przyjeżdża ciężarówkami i jest montowany dźwigiem. Producent zapyta o dojazd: szerokość, nośność, łuki. Przy dz. 2221 trawiasta ul. Brzozowa może wymagać tymczasowego utwardzenia (płyty drogowe) – zapytajcie producenta i gminę przed podpisaniem umowy.</p></div>
 </section><section id="k-teren"><h2>Wysokości terenu, droga dojazdowa i podsypka pod płytę</h2>
-<p>Wysokości odczytałem z numerycznego modelu terenu (NMT, digital terrain model) GUGiK – siatka co 1 m z lotniczego skanowania laserowego, udostępniona przez usługę Geoportalu. Pobrałem ok. 11 tys. punktów co 2 m w kwadracie ok. 210 × 210 m wokół działek. Sprawdziłem model w dwóch miejscach, gdzie znam wysokość z pomiaru geodezyjnego: przy studniach kanalizacyjnych na skrzyżowaniu ulic Świerkowych mapa sieci (GESUT) podaje teren 144,69 i 144,96 m n.p.m., a NMT daje 144,71 i 145,00 m. Różnica 2–4 cm – model jest wiarygodny. Wiążące wysokości poda jednak dopiero geodeta na mapie do celów projektowych.</p>
+<p>Wysokości odczytałem z numerycznego modelu terenu (NMT, digital terrain model) GUGiK – siatka co 1 m z lotniczego skanowania laserowego, udostępniona przez usługę Geoportalu. Pobrałem ok. 11 tys. punktów co 2 m w kwadracie ok. 210 × 210 m wokół działek. Sprawdziłem model przy trzech studniach kanalizacyjnych, których wysokość terenu podaje mapa uzbrojenia (GESUT): na skrzyżowaniu ul. Brzozowej ze Świerkową (144,69 m n.p.m.) i dwóch studniach na skrzyżowaniu ul. Świerkowych (144,96 i 144,84 m). Model daje w tych miejscach od 4 do 17 cm więcej – to dokładność wystarczająca do porównania wariantów, ale nie do projektu. Wiążące wysokości poda jednak dopiero geodeta na mapie do celów projektowych.</p>
 <figure class="wide"><button type="button" class="zoom" data-src="img/teren.jpg" aria-label="Powiększ mapę wysokości"><img src="img/teren.jpg" alt="Mapa wysokości terenu z warstwicami co 0,25 m oraz profile ulicy Brzozowej i Świerkowej wzdłuż działek 2221 i 2224" loading="lazy"></button><figcaption>Po lewej: rzeźba terenu z warstwicami co 0,25 m i wysokościami narożników działek. Po prawej: profile wzdłuż ulic (przerywane linie na mapie) z proponowaną nawierzchnią drogi i poziomem ±0,00 domu.</figcaption></figure>
 <h3>Jak wygląda teren</h3>
 <div class="tw"><table class="num"><thead><tr><th>Miejsce</th><th>Wysokość [m n.p.m.]</th><th class="l">Uwagi</th></tr></thead><tbody>

diff --git a/README.md b/README.md
@@ -24,5 +24,5 @@ To repozytorium i strona są publiczne. Z raportu usunięto dane o dochodach i s
 
 | Wersja | Data | Zmiana |
 |---|---|---|
-| 2.2 | 18.10.2026 | Tabela zgodności domów z MPZP nr 007 (zielone – spełnia, czerwone – nie spełnia, żółte – do sprawdzenia). |
+| 2.2 | 18.10.2026 | Tabela zgodności domów z MPZP nr 007; tabela „Media przy działkach – porównanie”; poprawione położenie studni na mapie wysokości. |
 | 2.1 | 18.10.2026 | Pierwsza publikacja strony na podstawie raportu v2.1 (menu boczne, motyw jasny/ciemny, wysokości terenu). |
